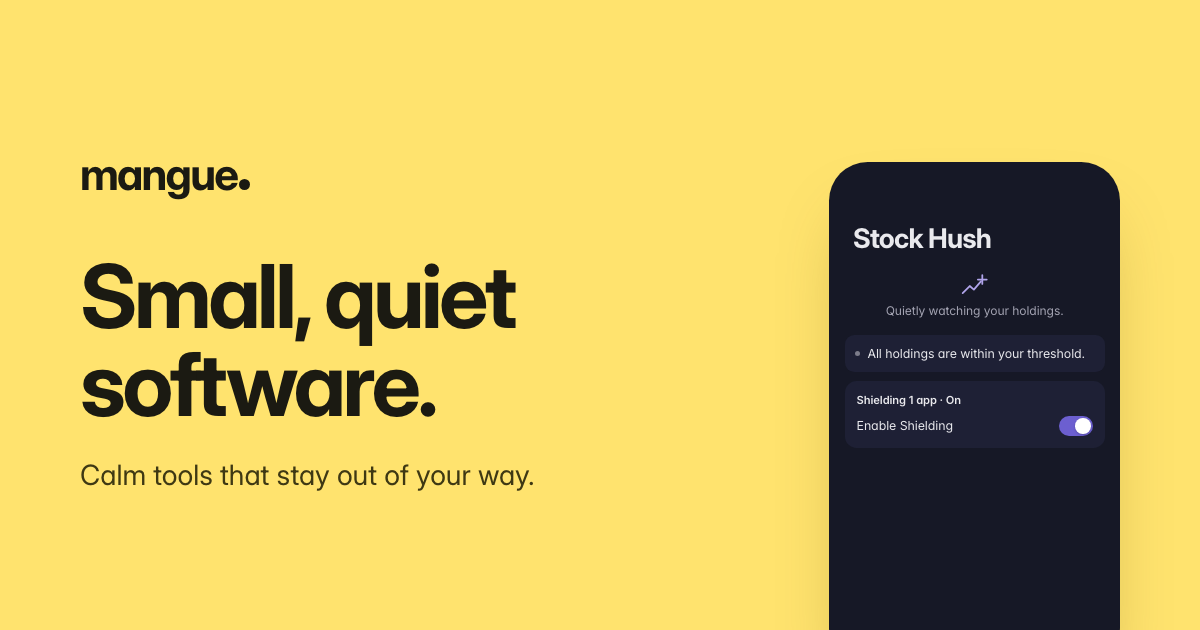
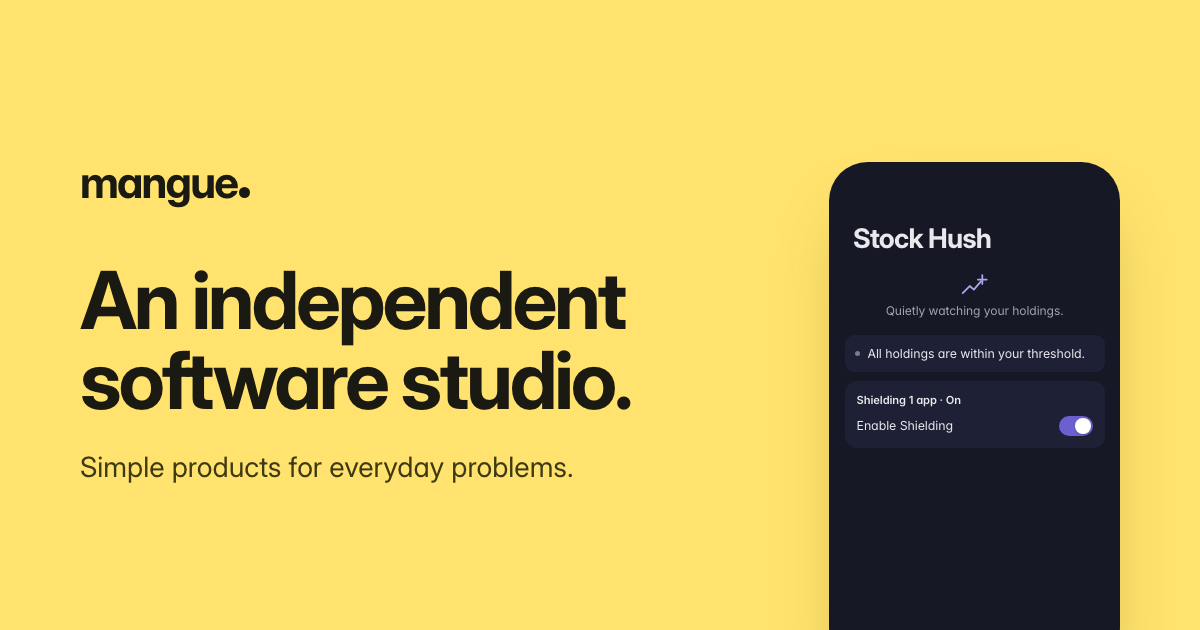
Rewrite Mangue hero copy; fill in legal name and GitHub username

Changed region(s): [[0.0617, 0.4222, 0.5242, 0.6635], [0.0617, 0.7238, 0.4933, 0.7841], [0.0617, 0.2413, 0.2158, 0.3317]]

diff --git a/index.html b/index.html
@@ -3,24 +3,24 @@
 <head>
   <meta charset="utf-8">
   <meta name="viewport" content="width=device-width, initial-scale=1">
-  <title>Mangue: Small, quiet software</title>
-  <meta name="description" content="Mangue is an independent software studio building calm tools that stay out of your way, and speak up only when something real matters. Makers of Stock Hush for iPhone.">
+  <title>Mangue: An independent software studio</title>
+  <meta name="description" content="Mangue is an independent software studio that builds simple products to solve everyday problems. Makers of Stock Hush for iPhone.">
   <link rel="canonical" href="https://mangue.dev/">
   <meta name="theme-color" content="#FFE36E">
   <meta name="color-scheme" content="light">
 
   <meta property="og:type" content="website">
   <meta property="og:site_name" content="Mangue">
-  <meta property="og:title" content="Mangue: Small, quiet software">
-  <meta property="og:description" content="Calm tools that stay out of your way, and speak up only when something real matters.">
+  <meta property="og:title" content="Mangue: An independent software studio">
+  <meta property="og:description" content="Mangue builds simple products that solve everyday problems.">
   <meta property="og:url" content="https://mangue.dev/">
   <meta property="og:image" content="https://mangue.dev/assets/img/og-mangue.png">
   <meta property="og:image:width" content="1200">
   <meta property="og:image:height" content="630">
-  <meta property="og:image:alt" content="mangue. Small, quiet software.">
+  <meta property="og:image:alt" content="mangue. An independent software studio.">
   <meta name="twitter:card" content="summary_large_image">
-  <meta name="twitter:title" content="Mangue: Small, quiet software">
-  <meta name="twitter:description" content="Calm tools that stay out of your way, and speak up only when something real matters.">
+  <meta name="twitter:title" content="Mangue: An independent software studio">
+  <meta name="twitter:description" content="Mangue builds simple products that solve everyday problems.">
   <meta name="twitter:image" content="https://mangue.dev/assets/img/og-mangue.png">
 
   <link rel="icon" href="/favicon.ico" sizes="32x32">
@@ -53,9 +53,8 @@
     <section class="m-hero" aria-labelledby="hero-title">
       <div class="container">
         <div>
-          <p class="eyebrow">Mangue — independent software studio</p>
-          <h1 id="hero-title" class="display">Small, quiet software.</h1>
-          <p class="lede">Mangue builds calm tools that stay out of your way, and speak up only when something real matters.</p>
+          <h1 id="hero-title" class="display">An independent software studio.</h1>
+          <p class="lede">Mangue builds simple products that solve everyday problems.</p>
           <div class="actions">
             <a class="btn btn-ink" href="/stockhush/">Meet Stock Hush</a>
             <a class="text-link" href="mailto:hello@mangue.dev">hello@mangue.dev</a>

diff --git a/404.html b/404.html
@@ -11,16 +11,16 @@
 
   <meta property="og:type" content="website">
   <meta property="og:site_name" content="Mangue">
-  <meta property="og:title" content="Mangue: Small, quiet software">
-  <meta property="og:description" content="Calm tools that stay out of your way, and speak up only when something real matters.">
+  <meta property="og:title" content="Mangue: An independent software studio">
+  <meta property="og:description" content="Mangue builds simple products that solve everyday problems.">
   <meta property="og:url" content="https://mangue.dev/">
   <meta property="og:image" content="https://mangue.dev/assets/img/og-mangue.png">
   <meta property="og:image:width" content="1200">
   <meta property="og:image:height" content="630">
-  <meta property="og:image:alt" content="mangue. Small, quiet software.">
+  <meta property="og:image:alt" content="mangue. An independent software studio.">
   <meta name="twitter:card" content="summary_large_image">
-  <meta name="twitter:title" content="Mangue: Small, quiet software">
-  <meta name="twitter:description" content="Calm tools that stay out of your way, and speak up only when something real matters.">
+  <meta name="twitter:title" content="Mangue: An independent software studio">
+  <meta name="twitter:description" content="Mangue builds simple products that solve everyday problems.">
   <meta name="twitter:image" content="https://mangue.dev/assets/img/og-mangue.png">
 
   <link rel="icon" href="/favicon.ico" sizes="32x32">

diff --git a/stockhush/terms/index.html b/stockhush/terms/index.html
@@ -60,7 +60,7 @@
         <h1>Terms of Use</h1>
         <p class="meta">Effective date: <mark class="confirm">[CONFIRM: effective date]</mark> · Draft</p>
 
-        <p>These terms cover your use of Stock Hush, an app from Mangue. Mangue is a brand name. The app is offered by <mark class="placeholder">[LEGAL_NAME]</mark>, a sole proprietor ("we", "us").</p>
+        <p>These terms cover your use of Stock Hush, an app from Mangue. Mangue is a brand name. The app is offered by <strong>Raghav Verma</strong>, a sole proprietor ("we", "us").</p>
 
         <h2>The license</h2>
         <p>Your use of Stock Hush is governed by Apple's standard <a href="https://www.apple.com/legal/internet-services/itunes/dev/stdeula/">Licensed Application End User License Agreement</a> <mark class="confirm">[CONFIRM: or custom terms]</mark>. The points below add details specific to Stock Hush. If they conflict with that agreement, the agreement wins. <mark class="confirm">[CONFIRM: order of precedence]</mark></p>

diff --git a/stockhush/privacy/index.html b/stockhush/privacy/index.html
@@ -65,7 +65,7 @@
         </div>
 
         <h2>Who we are</h2>
-        <p>Stock Hush is an app from Mangue. Mangue is a brand name, not a company. The app is offered by <mark class="placeholder">[LEGAL_NAME]</mark>, a sole proprietor ("we", "us"), who is responsible for your information as described here.</p>
+        <p>Stock Hush is an app from Mangue. Mangue is a brand name, not a company. The app is offered by <strong>Raghav Verma</strong>, a sole proprietor ("we", "us"), who is responsible for your information as described here.</p>
         <p>Contact: <a href="mailto:support@mangue.dev">support@mangue.dev</a>. <mark class="confirm">[CONFIRM: postal address, if you need to publish one (required in some places, for example under GDPR)]</mark></p>
 
         <h2>What Stock Hush uses, and why</h2>

diff --git a/README.md b/README.md
@@ -41,11 +41,11 @@ Open http://localhost:8000. (The local server doesn't serve `404.html` for missi
 ### Push
 
 ```bash
-git remote add origin git@github.com:<github-username>/mangue.dev.git
+git remote add origin git@github.com:raghavverma190/mangue.dev.git
 git push -u origin main
 ```
 
-(HTTPS alternative: `git remote add origin https://github.com/<github-username>/mangue.dev.git`)
+(HTTPS alternative: `git remote add origin https://github.com/raghavverma190/mangue.dev.git`)
 
 ## Porkbun DNS records
 
@@ -63,7 +63,7 @@ In Porkbun: **Domain Management → mangue.dev → DNS**.
 | A     | *(blank)*                 | `185.199.109.153`              | 600 |
 | A     | *(blank)*                 | `185.199.110.153`              | 600 |
 | A     | *(blank)*                 | `185.199.111.153`              | 600 |
-| CNAME | `www`                     | `<github-username>.github.io`  | 600 |
+| CNAME | `www`                     | `raghavverma190.github.io`  | 600 |
 
 **Optional, for IPv6:**
 
@@ -123,7 +123,7 @@ Also update the "iOS · TestFlight beta" chip on `/index.html` and the "Go quiet
 - **Pricing** is in the "Pricing" section of `stockhush/index.html`, and repeated in `stockhush/terms/index.html` and the JSON-LD block in the `<head>` of `stockhush/index.html`. Change all three together.
 - **FAQ** appears in two places: `stockhush/index.html` (the `<dl class="faq">` list) and `stockhush/support/index.html` (the `<details>` blocks).
 - **Phone mockups** are HTML in the pages, styled by `assets/css/phone.css`. Each one has a `role="img"` and an `aria-label` describing it. If you change the visible text, update the label too.
-- **Legal pages:** search for `[CONFIRM` and `[LEGAL_NAME]` and replace each one. Each page ends with a yellow-bordered "items to confirm" list; delete that `<section class="confirm-list">` once everything is filled in, and set the effective date.
+- **Legal pages:** search for `[CONFIRM` and replace each one. Each page ends with a yellow-bordered "items to confirm" list; delete that `<section class="confirm-list">` once everything is filled in, and set the effective date.
 - **New pages:** copy an existing page, then update its `<title>`, `<meta name="description">`, `<link rel="canonical">` and OG/Twitter tags, and add it to `sitemap.xml`.
 - **Social images** (`assets/img/og-*.png`, 1200×630) were rendered from HTML with headless Chrome. To change them, edit and re-export in any tool at 1200×630.
 - **Year:** the footers say "© 2026". Update it by hand each year:
